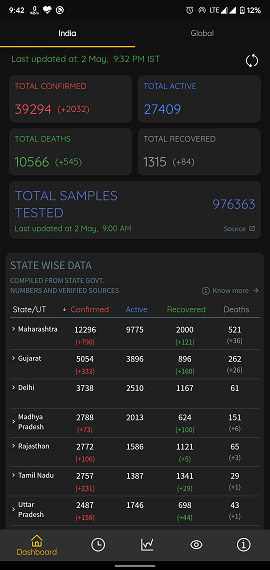
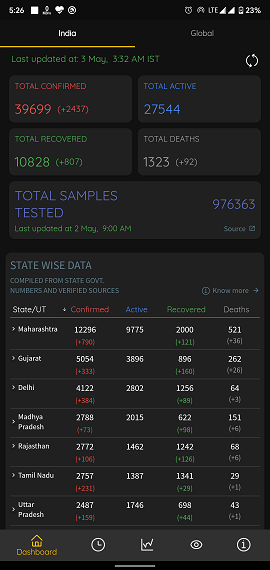
Bugs fixed

diff --git a/lib/screens/dashboard/dashboard_india/dashboard_india.dart b/lib/screens/dashboard/dashboard_india/dashboard_india.dart
@@ -212,14 +212,14 @@ class _DashboardIndiaState extends State<DashboardIndia>{
                           mainAxisAlignment: MainAxisAlignment.spaceEvenly,
                           children: <Widget>[
                             DashboardTile(
-                              mainTitle: lang.translate(kTotalDetLang),
+                              mainTitle: lang.translate(kTotalRecLang),
                               value: map[kStateWise][0][kRecovered],
                               delta: map[kStateWise][0][kDeltaRecovered],
                               color: kGreenColor,
                             ),
                             SizedBox(width: 10,),
                             DashboardTile(
-                              mainTitle: lang.translate(kTotalRecLang),
+                              mainTitle: lang.translate(kTotalDetLang),
                               value: map[kStateWise][0][kDeaths],
                               delta: map[kStateWise][0][kDeltaDeaths],
                               color: Colors.grey,

diff --git a/lib/screens/dashboard/dashboard_global/dashboard_global.dart b/lib/screens/dashboard/dashboard_global/dashboard_global.dart
@@ -78,7 +78,6 @@ class _DashboardGlobalState extends State<DashboardGlobal>{
           return Center(child: CircularProgressIndicator(),);
         }
         if(snapshot.hasError){
-          print(snapshot.error);
           return Center(
             child: ErrorScreen(
               onClickRetry: (){
@@ -92,7 +91,6 @@ class _DashboardGlobalState extends State<DashboardGlobal>{
           );
         }
         if(!snapshot.hasData){
-          print("no data");
           return Center(
             child: ErrorScreen(
               onClickRetry: (){
@@ -121,7 +119,6 @@ class _DashboardGlobalState extends State<DashboardGlobal>{
             Country.fromMap(context,map),
           );
         });
-        print(countryWiseData.length);
 
         List<Country> worstAffectedCountries = List();
 

diff --git a/lib/screens/about/about_screen.dart b/lib/screens/about/about_screen.dart
@@ -530,7 +530,7 @@ class _AboutScreenState extends State<AboutScreen>{
                               ):SizedBox(),
                               SizedBox(width: 5,),
                               Text(
-                                '1.4.2',
+                                '1.4.3',
                                 style: TextStyle(
                                   fontSize: 16*textScaleFactor,
                                 ),

diff --git a/lib/screens/onboarding_screen.dart b/lib/screens/onboarding_screen.dart
@@ -205,7 +205,7 @@ class _OnboardingState extends State<Onboarding>{
           children: <Widget>[
             IntroViewsFlutter(
               _pages,
-              fullTransition: 150,
+              fullTransition: 200,
               onTapDoneButton: (){
                 goToDashboard();
               },
